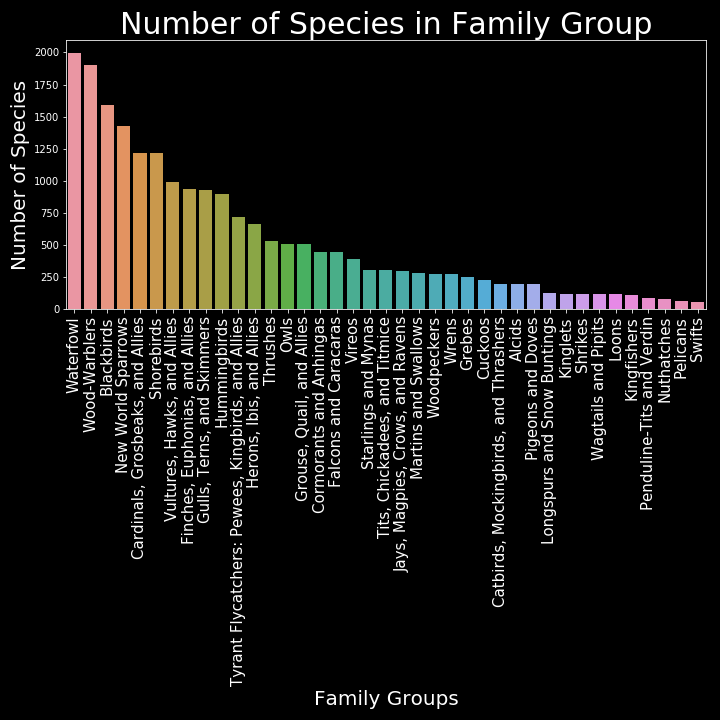
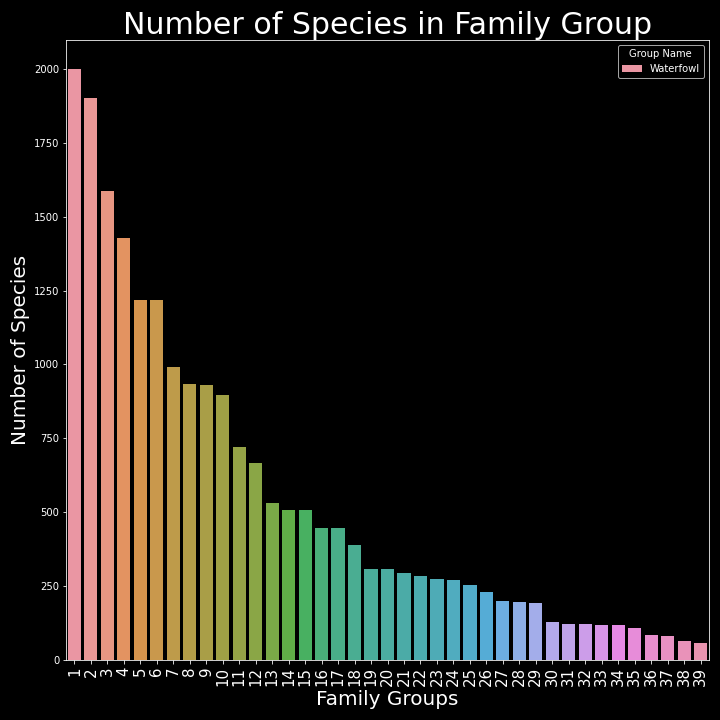
better labeled num species in fam group plot

Changed region(s): [[0.0, 0.0306, 1.0, 0.9778], [0.1528, 0.0, 0.6417, 0.0611], [0.6722, 0.0306, 0.7639, 0.0611]]

diff --git a/README.md b/README.md
@@ -35,7 +35,7 @@ This Berkeley articles on why birds are dinosaurs (but also shows the skeptical 
 ## Data Preparation
 
 Since there are many images, Amazon S3 came into play. The images are loaded into a bucket and stored in separated folders of the bird species.
-While the original goal is to classify around 555 species of birds with more than 40,000 images, as it will be shown later, it was not possible for now. The pivoted project goal is to identify 3 different types of birds: **ducks, finches, and hawks**.
+For this project, 21129 images will be used which includes 39 family groups of birds.
 
 A function is written to retrieve the images from the S3 bucket while also resizing them, convert to array, and append to a list. This is due to the need for the input of the neural network to be numpy arrays.
 
@@ -61,7 +61,7 @@ def resize_images_array(img_dir, folders, bucket):
                 obj = s3.get_object(Bucket=bucket, Key=f'{filepath}')
                 img_bytes = BytesIO(obj['Body'].read())
                 open_img = Image.open(img_bytes)
-                arr = np.array(open_img.resize((200,200))) # resize to 200,200. possible to play around with better or worse resolution
+                arr = np.array(open_img.resize((299,299)))
                 img_arrays.append(arr)
                 labels.append(folder)
             except:
